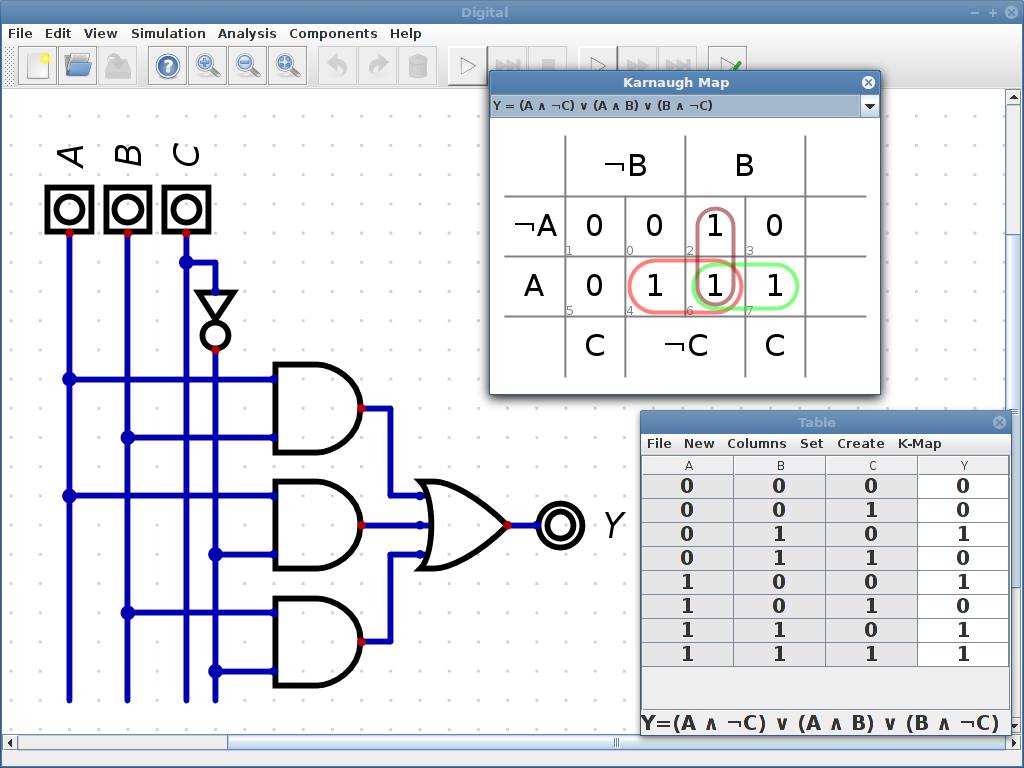
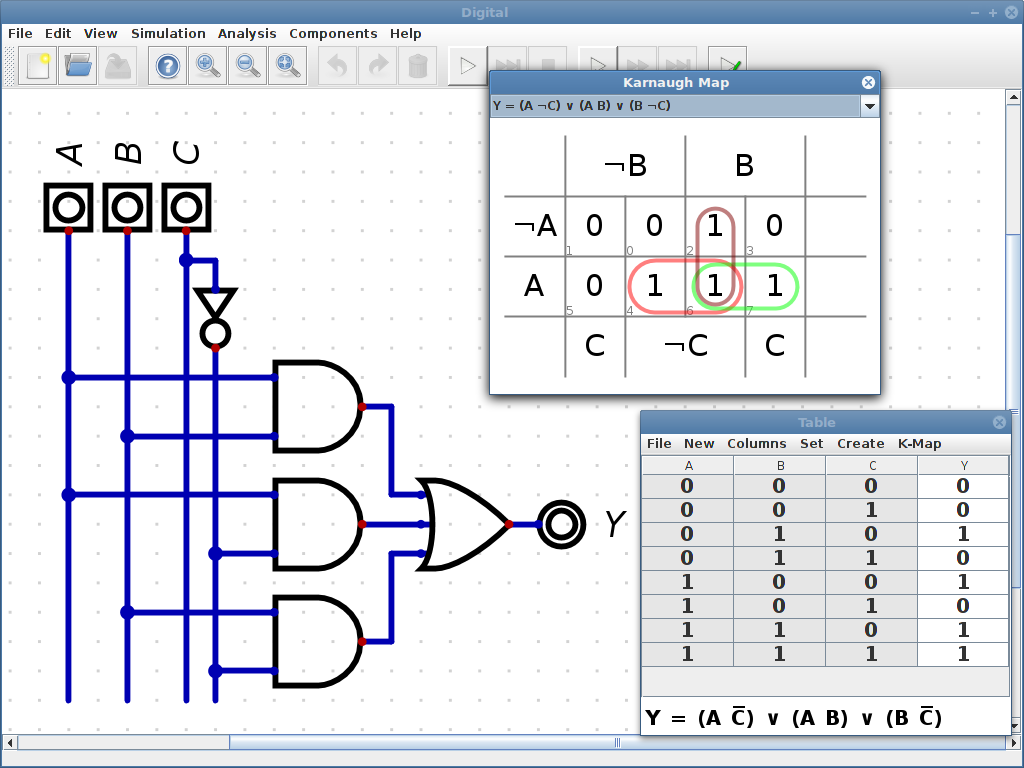
updated the screen shots

diff --git a/src/test/java/de/neemann/digital/docu/ScreenShots.java b/src/test/java/de/neemann/digital/docu/ScreenShots.java
@@ -7,6 +7,7 @@ package de.neemann.digital.docu;
 
 import de.neemann.digital.analyse.TruthTable;
 import de.neemann.digital.analyse.TruthTableTableModel;
+import de.neemann.digital.analyse.expression.format.FormatToExpression;
 import de.neemann.digital.core.element.Keys;
 import de.neemann.digital.fsm.gui.FSMFrame;
 import de.neemann.digital.gui.Main;
@@ -49,6 +50,7 @@ public class ScreenShots {
     private static Main mainStatic;
 
     public static void main(String[] args) {
+        FormatToExpression.setDefaultFormat(FormatToExpression.FORMATTER_UNICODE_NOAND);
         Settings.getInstance().getAttributes().set(Keys.SETTINGS_DEFAULT_TREESELECT, false);
         Settings.getInstance().getAttributes().set(Keys.SETTINGS_GRID, true);
 //        mainScreenShot();
@@ -58,10 +60,12 @@ public class ScreenShots {
     }
 
     private static void all() {
+        Settings.getInstance().getAttributes()
+                .set(Keys.SETTINGS_GRID, true);
+
         // English
         Lang.setActualRuntimeLanguage(new Language("en"));
         Settings.getInstance().getAttributes()
-                .set(Keys.SETTINGS_GRID, true)
                 .set(Keys.SETTINGS_IEEE_SHAPES, true);
         mainScreenShot();
         firstSteps();
@@ -70,7 +74,6 @@ public class ScreenShots {
         // German
         Lang.setActualRuntimeLanguage(new Language("de"));
         Settings.getInstance().getAttributes()
-                .set(Keys.SETTINGS_GRID, true)
                 .set(Keys.SETTINGS_IEEE_SHAPES, false);
         firstSteps();
         hierarchicalDesign();
@@ -78,7 +81,6 @@ public class ScreenShots {
         // Portuguese
         Lang.setActualRuntimeLanguage(new Language("pt"));
         Settings.getInstance().getAttributes()
-                .set(Keys.SETTINGS_GRID, true)
                 .set(Keys.SETTINGS_IEEE_SHAPES, true);
         firstSteps();
         hierarchicalDesign();
@@ -86,7 +88,6 @@ public class ScreenShots {
         // Spanish
         Lang.setActualRuntimeLanguage(new Language("es"));
         Settings.getInstance().getAttributes()
-                .set(Keys.SETTINGS_GRID, true)
                 .set(Keys.SETTINGS_IEEE_SHAPES, true);
         firstSteps();
         hierarchicalDesign();
@@ -94,13 +95,14 @@ public class ScreenShots {
 
     private static void mainScreenShot() {
         Lang.setActualRuntimeLanguage(new Language("en"));
+
         Settings.getInstance().getAttributes()
                 .set(Keys.SETTINGS_IEEE_SHAPES, true)
                 .set(Keys.SETTINGS_GRID, true)
                 .set(Keys.SETTINGS_SHOW_WIRE_BITS, true);
         new GuiTester("../../main/dig/processor/Processor.dig", "examples/processor/Processor.dig")
                 .press(' ')
-                .delay(2000)
+                .delay(4000)
                 .add(new GuiTester.WindowCheck<>(GraphicDialog.class, (gt, gd) -> {
                     graphic = gd;
                     final Main main = (Main) gd.getParent();
@@ -112,7 +114,7 @@ public class ScreenShots {
                 .delay(500)
                 .press("F1")
                 .add(new MainScreenShot("distribution/screenshot.png"))
-                .execute();
+                .execute(); /**/
         new GuiTester()
                 .press("F10")
                 .press("RIGHT", 4)
@@ -215,7 +217,7 @@ public class ScreenShots {
                 .add(new GuiTester.CloseTopMost())
                 .add(new GuiTester.CloseTopMost())
                 .add(new GuiTester.CloseTopMost())
-                .execute();
+                .execute();/**/
     }
 
     private static GuiTester.WindowCheck<Window> closeAllSolutionsDialog() {
